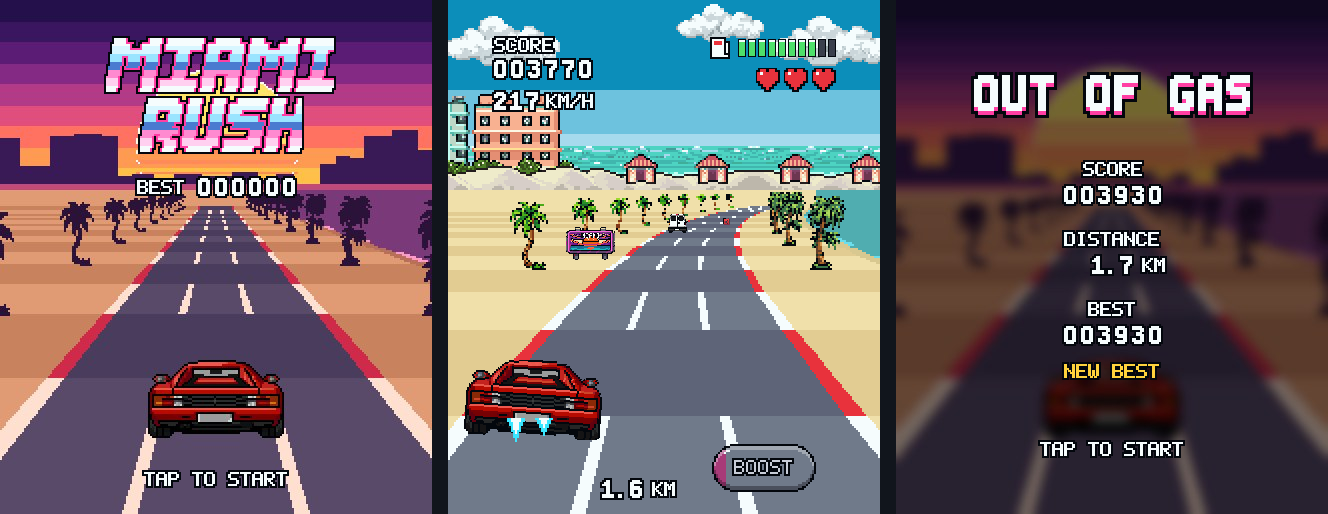
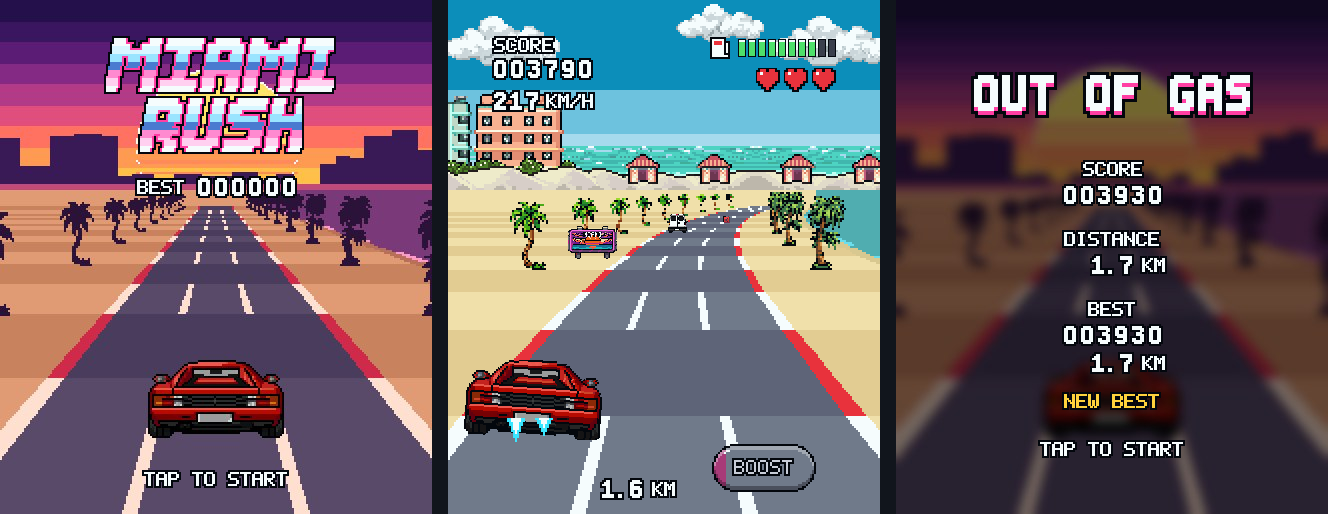
Show the best run's distance on the results screen
The best score now keeps the distance of the run that set it, shown
under BEST like the run's own distance, with NEW BEST moved down. It is
saved with the score in the same storage entry ('32320 81': score, then
tenths of a km). A best saved before this has no distance, and its line
stays hidden until a new best is set.

diff --git a/src/common/js/renderer.js b/src/common/js/renderer.js
@@ -41,6 +41,7 @@ export const LAYOUT = {
   resScore: { left: 166, top: 184, step: 17 },
   resDist: { lefts: [162, 178, 194, 206, 222], top: 254 },
   resBest: { left: 166, top: 324, step: 17 },
+  resBestDist: { lefts: [162, 178, 194, 206, 222], top: 352 },
   resHead: { top: 72 },
 }
 
@@ -157,6 +158,8 @@ export function initialData() {
     resScore: [],
     resDist: [],
     resBest: [],
+    resBestDist: [],
+    resBestKmOn: false,
     newBest: false,
     newBestOn: false,
     fpsText: '',
@@ -186,6 +189,7 @@ export class Renderer {
     vm.resScore = row('rs', 6, DIGIT[0], LAYOUT.resScore)
     vm.resDist = row('rd', 5, BLANK, LAYOUT.resDist)
     vm.resBest = row('rb', 6, DIGIT[0], LAYOUT.resBest)
+    vm.resBestDist = row('rbd', 5, BLANK, LAYOUT.resBestDist)
     // Read the lists back: the page may hand out observed copies.
     this.items = {
       back: vm.back,
@@ -199,6 +203,7 @@ export class Renderer {
       resScore: vm.resScore,
       resDist: vm.resDist,
       resBest: vm.resBest,
+      resBestDist: vm.resBestDist,
     }
     this.shown = {}
     for (const key in this.items) {
@@ -231,6 +236,7 @@ export class Renderer {
     this.headOn = vm.headOn
     this.headStyles = new Styles(this.fresh)
     this.tapOn = vm.tapOn
+    this.resBestKmOn = vm.resBestKmOn
     this.newBest = vm.newBest
     this.newBestOn = vm.newBestOn
     this.resHeadSrc = ''
@@ -329,6 +335,11 @@ export class Renderer {
     this.list('resScore', s.resScore)
     this.list('resDist', s.resDist)
     this.list('resBest', s.best)
+    this.list('resBestDist', s.resBestDist)
+    if (s.resBestKmOn !== this.resBestKmOn) {
+      this.resBestKmOn = s.resBestKmOn
+      vm.resBestKmOn = s.resBestKmOn
+    }
     if (s.newBest !== this.newBest) {
       this.newBest = s.newBest
       vm.newBest = s.newBest

diff --git a/src/common/js/runner.js b/src/common/js/runner.js
@@ -7,7 +7,9 @@
 //   vm            the page, or the harness's stand-in
 //   folme         @system.folme, or null
 //   loadBest(cb)  calls cb(string or null) with the saved best score
-//   saveBest(s)   saves it, as a string
+//   saveBest(s)   saves it, as a string: the score, then the best run's
+//                 distance in tenths of a km ('32320 81'). Older saves have
+//                 the score alone.
 //   keepScreenOn(on)
 // }
 
@@ -41,7 +43,9 @@ export class Runner {
   start() {
     this.renderer.init()
     this.host.loadBest((value) => {
-      this.game.setBest(parseInt(value, 10) || 0)
+      const parts = String(value || '').split(' ')
+      const tenths = parseInt(parts[1], 10)
+      this.game.setBest(parseInt(parts[0], 10) || 0, tenths >= 0 ? tenths : -1)
     })
     this.resume()
   }
@@ -94,10 +98,7 @@ export class Runner {
     this.scene.build(game)
     this.renderer.apply(this.scene)
 
-    if (game.bestDirty) {
-      game.bestDirty = false
-      this.host.saveBest(String(game.best))
-    }
+    if (game.bestDirty) this.saveBest()
     const racing = !game.paused && game.state >= COUNTDOWN && game.state <= CRASHING
     this.keepScreenOn(racing)
     if (DEBUG) this.stats(now, racing)
@@ -105,6 +106,13 @@ export class Runner {
     const fast = racing || game.state === LOAD
     const spent = Date.now() - now
     this.timer = setTimeout(this.tickFn, Math.max(1, (fast ? FRAME_MS : IDLE_MS) - spent))
+  }
+
+  // Once per run that sets a new best.
+  saveBest() {
+    const game = this.game
+    game.bestDirty = false
+    this.host.saveBest(game.best + ' ' + game.bestTenths)
   }
 
   keepScreenOn(on) {

diff --git a/harness/harness.js b/harness/harness.js
@@ -105,6 +105,8 @@ list('resDist', E.results)
 el('img', 'hud res-km', E.results, A + 'hud/words_km.png')
 el('img', 'hud res-best', E.results, A + 'hud/words_best.png')
 list('resBest', E.results)
+list('resBestDist', E.results)
+E.resBestKm = el('img', 'hud res-best-km', E.results, A + 'hud/words_km.png')
 E.resNew = el('img', 'hud res-new', E.results, A + 'hud/words_newbest.png')
 E.resTap = el('img', 'hud res-tap', E.results, A + 'hud/words_taptostart.png')
 
@@ -151,6 +153,7 @@ const LIST_CLASS = {
   resScore: 'digit',
   resDist: 'digit',
   resBest: 'digit',
+  resBestDist: 'digit',
 }
 
 const data = Object.assign(initialData(), { debug: DEBUG, build: 'harness' })
@@ -191,6 +194,7 @@ const SETTERS = {
   resHeadSrc: (v) => (E.resHead.src = v),
   resHeadStyle: (v) => place(E.resHead, v),
   newBestOn: (v) => show(E.resNew, v),
+  resBestKmOn: (v) => show(E.resBestKm, v),
   fpsText: (v) => (E.fps.textContent = v),
   debug(v) {
     show(E.corners, v)

diff --git a/src/common/js/scene.js b/src/common/js/scene.js
@@ -151,6 +151,8 @@ export class Scene {
     this.resHeadLeft = 0
     this.resScore = strings(6, DIGIT[0])
     this.resDist = strings(5, BLANK)
+    this.resBestDist = strings(5, BLANK) // the best run's distance, under BEST
+    this.resBestKmOn = false // hidden while that distance isn't known
     this.newBest = false
     this.blinkOn = true // NEW BEST blinks on the results screen
     this.tapOn = true // TAP TO START, blinking, once taps count
@@ -194,6 +196,9 @@ export class Scene {
       digits(this.resScore, 0, 6, g.score, false)
       distance(this.resDist, 0, g.km)
       digits(this.best, 0, 6, g.best, false)
+      this.resBestKmOn = g.bestTenths >= 0
+      if (this.resBestKmOn) distance(this.resBestDist, 0, g.bestTenths / 10)
+      else for (let i = 0; i < 5; i++) this.resBestDist[i] = BLANK
       this.newBest = g.newBest
     }
     // The last race frame stays underneath; freeze its HUD too.

diff --git a/src/common/js/game.js b/src/common/js/game.js
@@ -91,6 +91,7 @@ export class Game {
     this.time = 0
     this.paused = false
     this.best = 0
+    this.bestTenths = -1 // the best run's distance in tenths of a km; -1 if not saved
     this.bestDirty = false
     this.loaded = false // the best score has been read
     this.preload = PRELOAD ? 0 : LEVELS.length * PHASES // road frames shown on the loading screen
@@ -139,8 +140,9 @@ export class Game {
     this.laneSeq++
   }
 
-  setBest(best) {
+  setBest(best, tenths = -1) {
     this.best = best
+    this.bestTenths = tenths
     this.loaded = true
   }
 
@@ -459,6 +461,7 @@ export class Game {
     this.newBest = this.score > this.best
     if (this.newBest) {
       this.best = this.score
+      this.bestTenths = Math.floor(this.km * 10 + 1e-6)
       this.bestDirty = true
     }
     this.setState(RESULTS)

diff --git a/README.md b/README.md
@@ -10,7 +10,7 @@ The car drives forward on its own. Tap the left or right half of the screen to m
 
 - **Dodge** road blocks and slower traffic: each hit costs one of your 3 lives. Overtaking a car scores a bonus.
 - **Collect** gas cans to keep the tank from running dry, and repair kits to win back a life.
-- **Go far:** the road never ends, and it gets faster and busier with every kilometre. The run ends when you're out of lives or out of gas, and the best score is kept.
+- **Go far:** the road never ends, and it gets faster and busier with every kilometre. The run ends when you're out of lives or out of gas, and the best score is kept, along with how far that run went.
 
 Every run is a new road, generated as you drive from a random seed, with fairness rules so there's always a way through.
 
